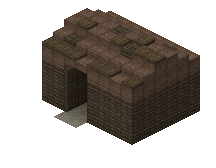
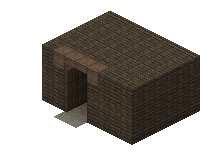
fps memory stats

diff --git a/src/Nieuw mapje 2/Map2.ts b/src/Nieuw mapje 2/Map2.ts
@@ -8,7 +8,7 @@ import Agriculture from "../Nieuw mapje 3/Agriculture";
 import { aabb3 } from "../Bound";
 import Obj from "../Nieuw mapje/Obj";
 import Zxcvs from "../Zxcvs";
-import { Color, Group } from "three";
+import { Color, Group, WebGLRenderTarget, Int8Attribute, RGBFormat, NearestFilter, LinearFilter, RGBAFormat } from "three";
 import { ThreeQuarter } from "../ThreeQuarter";
 import Tilization from "../Nieuw mapje 3/Tilization";
 
@@ -23,6 +23,7 @@ class chunk {
 	group: Group
 
 	objs: chunk_objs
+	rtt: chunk_rtt
 	p: zx
 	tile: zx
 	mult: zx
@@ -84,10 +85,11 @@ class chunk {
 		});
 
 		rekt.initiate();
-		rekt.mesh.renderOrder = -999;
+		rekt.mesh.renderOrder = -9999;
 	}
 	comes() {
 		if (!this.on && !this.empty()) {
+			this.show();
 			ThreeQuarter.scene.add(this.group);
 			this.objs.comes();
 		}
@@ -280,6 +282,32 @@ class chunk_fitter<T extends chunk> { // chunk-snake
 
 }
 
+class chunk_rtt {
+	readonly padding = Egyt.YUM * 2;
+	readonly w: number
+	readonly h: number
+
+	target: WebGLRenderTarget
+
+	constructor(private master: chunk_master<chunk>) {
+		this.w = this.master.width + this.padding;
+		this.h = this.master.height + this.padding;
+	}
+
+	readyup() {
+		if (this.target)
+			return;
+
+		this.target = new WebGLRenderTarget(
+			this.w, this.h,
+			{
+				minFilter: NearestFilter,
+				magFilter: NearestFilter,
+				format: RGBAFormat
+			});
+	}
+}
+
 class Map2 {
 	static rig() {
 		return new Map2;
@@ -323,12 +351,15 @@ class Map2 {
 
 		let tobaccoshop = new Rekt({
 			istile: true,
-			xy: [-16, -13],
+			xy: [-13, 2],
 			wh: [144, 144],
 			asset: 'egyt/building/redstore'
 		});
 
-		Agriculture.area_wheat(1, new aabb3([-9, -4, 0], [3, -22, 0]));
+		granary.initiate();
+		//tobaccoshop.initiate();
+
+		//Agriculture.area_wheat(1, new aabb3([-9, -4, 0], [3, -22, 0]));
 		Agriculture.area_wheat(2, new aabb3([5, -4, 0], [5 + 50 - 2, -12, 0]));
 		Agriculture.area_wheat(2, new aabb3([5 + 50, -4, 0], [5 + 50 - 2 + 50, -12, 0]));
 		Agriculture.area_wheat(3, new aabb3([5, -14, 0], [5 + 50 - 2, -22, 0]));
@@ -351,18 +382,17 @@ class Map2 {
 			'egyt/ground/gravel2',
 		];
 		// long road se
-		Tilization.area_sample(80, gravels, new aabb3([-13, 0, 0], [400, -2, 0]));
+		Tilization.area_sample(50, gravels, new aabb3([-13, 0, 0], [400, -2, 0]));
 
 		// long road ne
-		Tilization.area_sample(80, gravels, new aabb3([-13, 0, 0], [-11, 400, 0]));
+		Tilization.area_sample(50, gravels, new aabb3([-13, 0, 0], [-11, 400, 0]));
 
 		// farms se
-		Agriculture.area_wheat(2, new aabb3([-15, 21, 0], [-20, 101, 0]));
-		Agriculture.area_wheat(2, new aabb3([-15, 103, 0], [-20, 183, 0]));
+		Agriculture.area_wheat(1, new aabb3([-15, 21, 0], [-40, 101, 0]));
+		Agriculture.area_wheat(1, new aabb3([-15, 103, 0], [-40, 183, 0]));
 
 
-		granary.initiate();
-		//tobaccoshop.initiate();
+
 	}
 
 	get_chunk_tile(t: zx | zxc) {

diff --git a/src/ThreeQuarter.ts b/src/ThreeQuarter.ts
@@ -1,5 +1,6 @@
 import { default as THREE, OrthographicCamera, Clock, Scene, WebGLRenderer, Texture, TextureLoader, WebGLRenderTarget, ShaderMaterial, Mesh, PlaneBufferGeometry, Color } from 'three';
 import App from './App';
+import { Win } from './Win';
 
 export { THREE };
 
@@ -56,10 +57,31 @@ export namespace ThreeQuarter {
 		//filmic.composer.render();
 	}
 
+	var reset = 0;
+	var frames = 0;
+	export var fps;
+	export var heap;
+
+	// https://github.com/mrdoob/stats.js/blob/master/src/Stats.js#L71
+	export function calc() {
+		const s = Date.now() / 1000;
+		frames++;
+		if (s - reset >= 1) {
+			reset = s;
+			fps = frames;
+			frames = 0;
+		}
+		
+		const memory = (<any>window.performance).memory;
+		heap = `${(memory.usedJSHeapSize / 1048576).toFixed(4)} / ${memory.jsHeapSizeLimit / 1048576}`;
+			
+	}
 	export function render() {
 
 		//if (!changes)
 		//return;
+
+		calc();
 
 		renderer.setRenderTarget(target);
 		renderer.clear();
@@ -79,7 +101,7 @@ export namespace ThreeQuarter {
 
 	export function init() {
 
-		console.log('Two Init');
+		console.log('ThreeQuarter Init');
 
 		clock = new Clock();
 
@@ -96,7 +118,7 @@ export namespace ThreeQuarter {
 		target = new WebGLRenderTarget(
 			window.innerWidth, window.innerHeight,
 			{
-				minFilter: THREE.LinearFilter,
+				minFilter: THREE.NearestFilter,
 				magFilter: THREE.NearestFilter,
 				format: THREE.RGBFormat
 			});
@@ -108,11 +130,11 @@ export namespace ThreeQuarter {
 		renderer.autoClear = true;
 		renderer.setClearColor(0xffffff, 0);
 
-		
+
 		document.body.appendChild(renderer.domElement);
-		
+
 		window.addEventListener('resize', onWindowResize, false);
-		
+
 		someMore();
 		onWindowResize();
 

diff --git a/src/Egyt.ts b/src/Egyt.ts
@@ -9,7 +9,7 @@ import Agriculture from "./Nieuw mapje 3/Agriculture";
 
 export namespace Egyt {
 
-	export const YUM = 22; // evenly divisible n
+	export const YUM = 24; // evenly divisible
 
 	export var game: Game;
 	export var map2: Map2;
@@ -92,7 +92,7 @@ export namespace Egyt {
 		Win.init();
 
 		Win.raw(`
-		<div>Menu</div>
+		<div>You may have to reload the page for latest version</div>
 		<br />
 		<div class="region small">
 			<a>Tutorial
@@ -122,6 +122,8 @@ export namespace Egyt {
 			<a>Stats
 			</a>
 			<div class="stats">
+				<span id="fpsStat">xx</span><br/>
+				<span id="memoryStat">xx</span><br/>
 				<span id="gameAabb"></span><br/>
 				<span id="gamePos"></span><br/>
 				

diff --git a/src/Win.ts b/src/Win.ts
@@ -1,5 +1,7 @@
 import Rekt from "./Nieuw mapje/Rekt";
 import Obj from "./Nieuw mapje/Obj";
+import Zxcvs from "./Zxcvs";
+import { ThreeQuarter } from "./ThreeQuarter";
 
 namespace Win {
 	export var win;
@@ -61,6 +63,8 @@ namespace Win {
 	}
 
 	export function update() {
+		$('#fpsStat').text(`Fps: ${parseInt(ThreeQuarter.fps)}`);
+		$('#memoryStat').text(`Memory: ${ThreeQuarter.heap}`);
 		$('#numRekts').html('Num rekts: '+Rekt.num);
 		$('#numObjs').html('Num objs: '+Obj.num);
 		$('#numObjsActive').html('Num objs active: '+Obj.active);

diff --git a/index.html b/index.html
@@ -23,7 +23,7 @@
     <link rel="stylesheet" type="text/css" href="style95.css?v=6">
     <link rel="stylesheet" type="text/css" href="style2.css?v=6">
 
-    <script src="js/bundle.js?v=0.042"></script>
+    <script src="js/bundle.js?v=0.045"></script>
 
     <title>lumber</title>
 
@@ -31,7 +31,7 @@
 
     <script>
         $(document).ready(function () {
-            App.Boot('twx');
+            App.Boot('twxww');
         });
     </script>
 
